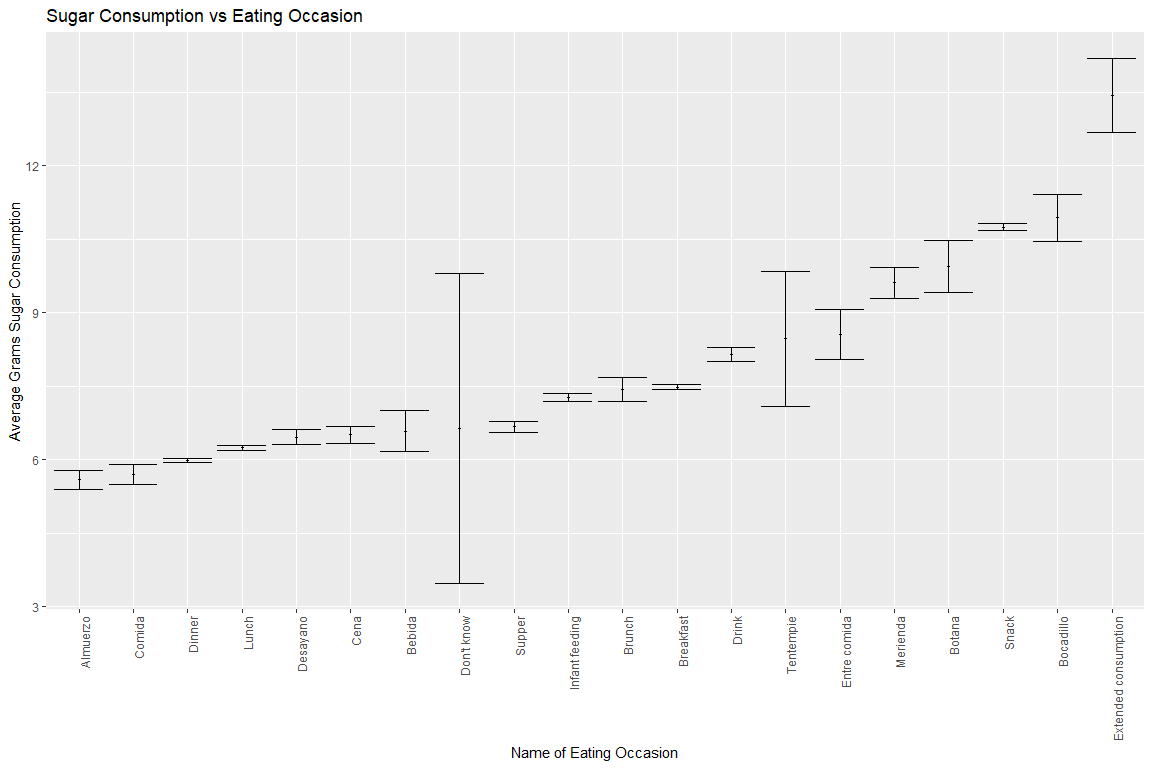
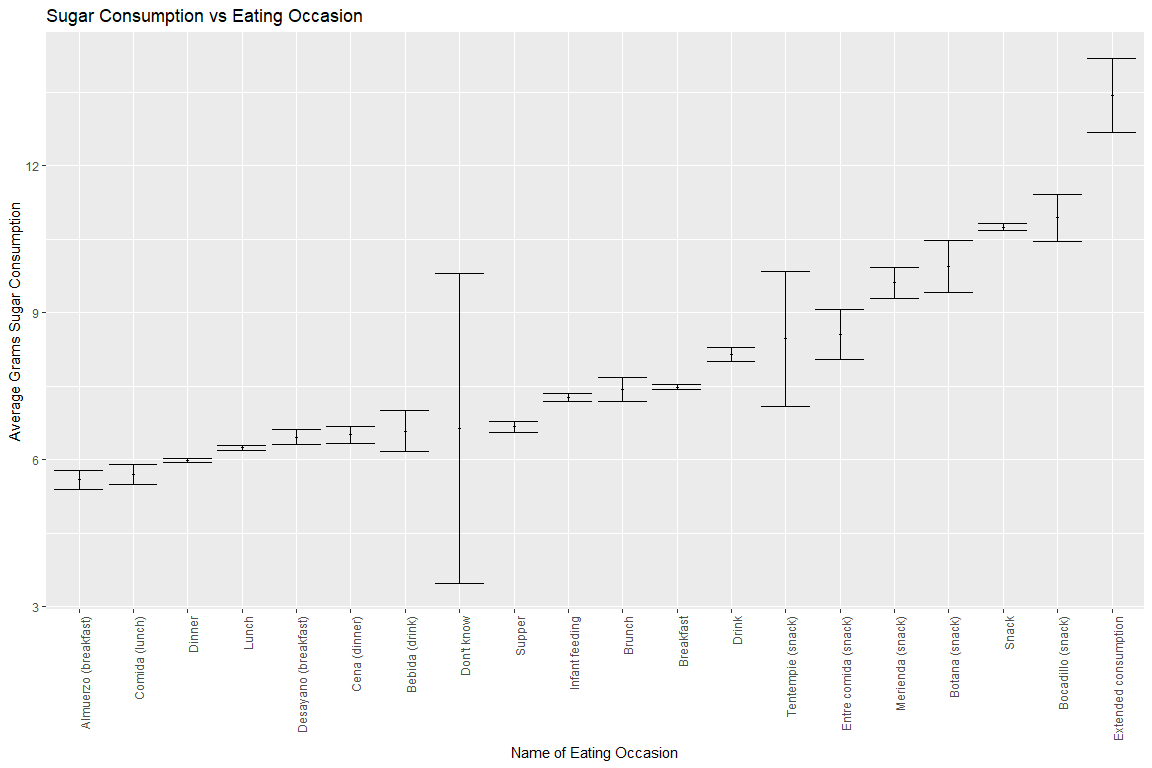
adding english translations for spanish eating occasions

diff --git a/README.md b/README.md
@@ -146,37 +146,38 @@ consumption is highest between the hours of 8:00 PM and 3:00 AM.
 | Eating Occasion      | Average Total Sugar Consumption (grams) | Standard Deviation of Total Sugar Consumption | Average Total Saturated Fatty Acid Consumption (grams) | Standard Deviation of Total Saturated Fatty Acid Consumption | Number of Observations |
 |:---------------------|----------------------------------------:|----------------------------------------------:|-------------------------------------------------------:|-------------------------------------------------------------:|-----------------------:|
 | Extended consumption |                                  13.436 |                                        47.648 |                                                  0.546 |                                                        3.073 |                   4055 |
-| Bocadillo            |                                  10.940 |                                        14.916 |                                                  1.652 |                                                        3.873 |                    970 |
+| Bocadillo (snack)    |                                  10.940 |                                        14.916 |                                                  1.652 |                                                        3.873 |                    970 |
 | Snack                |                                  10.750 |                                        16.272 |                                                  2.058 |                                                        4.183 |                  51059 |
-| Botana               |                                   9.937 |                                        13.608 |                                                  1.446 |                                                        3.341 |                    658 |
-| Merienda             |                                   9.614 |                                        14.309 |                                                  1.529 |                                                        3.602 |                   2002 |
-| Entre comida         |                                   8.560 |                                        13.975 |                                                  1.263 |                                                        3.466 |                    757 |
-| Tentempie            |                                   8.470 |                                        11.235 |                                                  1.217 |                                                        2.338 |                     67 |
+| Botana (snack)       |                                   9.937 |                                        13.608 |                                                  1.446 |                                                        3.341 |                    658 |
+| Merienda (snack)     |                                   9.614 |                                        14.309 |                                                  1.529 |                                                        3.602 |                   2002 |
+| Entre comida (snack) |                                   8.560 |                                        13.975 |                                                  1.263 |                                                        3.466 |                    757 |
+| Tentempie (snack)    |                                   8.470 |                                        11.235 |                                                  1.217 |                                                        2.338 |                     67 |
 | Drink                |                                   8.152 |                                        17.148 |                                                  0.384 |                                                        1.643 |                  15124 |
 | Breakfast            |                                   7.485 |                                        11.892 |                                                  1.638 |                                                        3.086 |                  60030 |
 | Brunch               |                                   7.447 |                                        13.132 |                                                  2.268 |                                                        4.273 |                   2883 |
 | Infant feeding       |                                   7.273 |                                         6.152 |                                                  1.524 |                                                        1.579 |                   6377 |
 | Supper               |                                   6.679 |                                        13.989 |                                                  2.473 |                                                        4.544 |                  14958 |
 | Don’t know           |                                   6.640 |                                         8.925 |                                                  0.263 |                                                        0.478 |                      8 |
-| Bebida               |                                   6.590 |                                        14.260 |                                                  0.318 |                                                        1.094 |                   1141 |
-| Cena                 |                                   6.514 |                                        12.368 |                                                  1.876 |                                                        4.197 |                   5047 |
-| Desayano             |                                   6.461 |                                        10.920 |                                                  1.384 |                                                        2.656 |                   4949 |
+| Bebida (drink)       |                                   6.590 |                                        14.260 |                                                  0.318 |                                                        1.094 |                   1141 |
+| Cena (dinner)        |                                   6.514 |                                        12.368 |                                                  1.876 |                                                        4.197 |                   5047 |
+| Desayano (breakfast) |                                   6.461 |                                        10.920 |                                                  1.384 |                                                        2.656 |                   4949 |
 | Lunch                |                                   6.248 |                                        12.406 |                                                  1.967 |                                                        3.673 |                  64280 |
 | Dinner               |                                   5.989 |                                        12.521 |                                                  2.327 |                                                        4.312 |                  68497 |
-| Comida               |                                   5.700 |                                        12.082 |                                                  1.869 |                                                        4.119 |                   3683 |
-| Almuerzo             |                                   5.592 |                                        11.999 |                                                  1.766 |                                                        3.923 |                   3927 |
+| Comida (lunch)       |                                   5.700 |                                        12.082 |                                                  1.869 |                                                        4.119 |                   3683 |
+| Almuerzo (breakfast) |                                   5.592 |                                        11.999 |                                                  1.766 |                                                        3.923 |                   3927 |
 
 Eating occasions that are more considered to be more formal meals, such
 as dinner, lunch, almuerzo (breakfast), desayano (breakfast), supper,
 etc. generally involve less consumption of sugar than do informal eating
 occasions such as snacks (including bocadillo, botana, merienda, entre
 comida). The reverse is true for saturated fats consumption, as the
-average grams consumed for these are higher in more formal eating
-occasions.  
-Note: in the 2003-2004 NHANES data
+average grams consumed for these are slightly higher in more formal
+eating occasions.  
+Note: the data I used (2017-2020) did not provide English translations
+for Spanish meal names, but they were provided in the 2003-2004 NHANES
+data
 [documentation](https://wwwn.cdc.gov/Nchs/Nhanes/2003-2004/dr1iff_c.htm#DR1_030Z),
-English translations were provided for Spanish eating occasion names,
-which I will be using for reference in this analysis:
+which is what I used for reference in this analysis:
 
 | Spanish      | English     |
 |:-------------|:------------|
@@ -342,9 +343,9 @@ on sugar or saturated fa consumption, as the distributions for “yes” and
 
 #### What foods are associated with high sugar or high saturated fatty acids?
 
-<img src="README_files/figure-gfm/unnamed-chunk-1-1.png" style="display: block; margin: auto;" />
-
 <img src="README_files/figure-gfm/unnamed-chunk-2-1.png" style="display: block; margin: auto;" />
+
+<img src="README_files/figure-gfm/unnamed-chunk-3-1.png" style="display: block; margin: auto;" />
 
 #### Preliminary Conclusions
 
